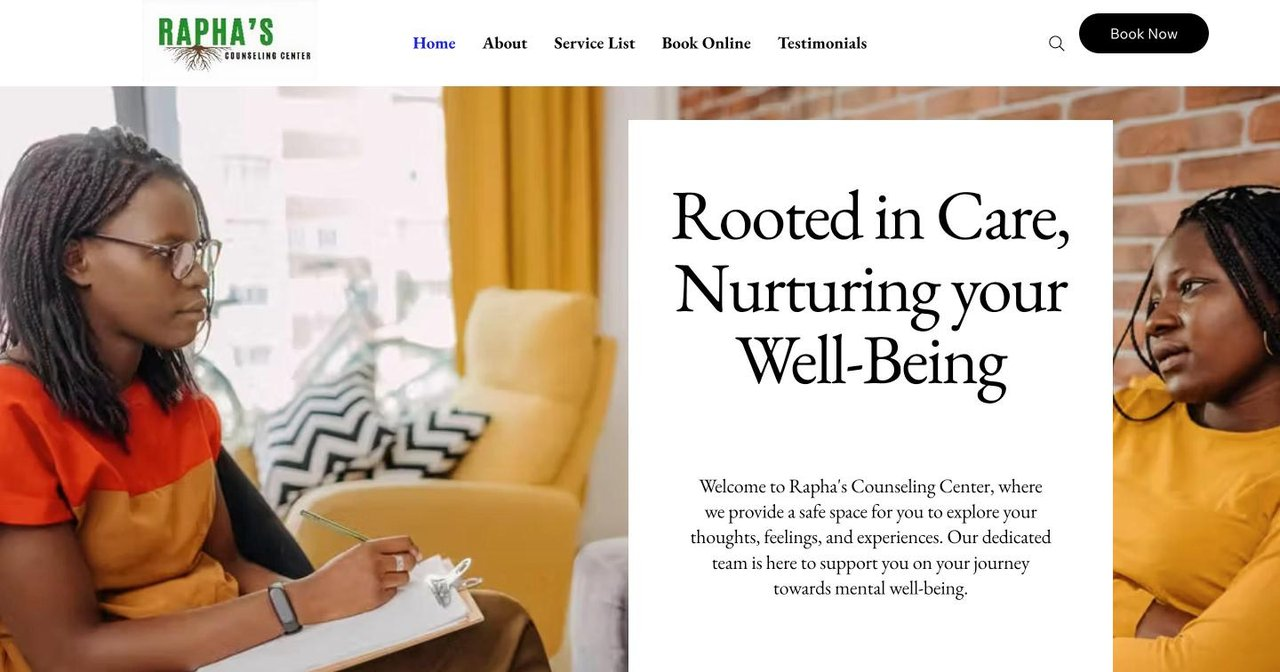
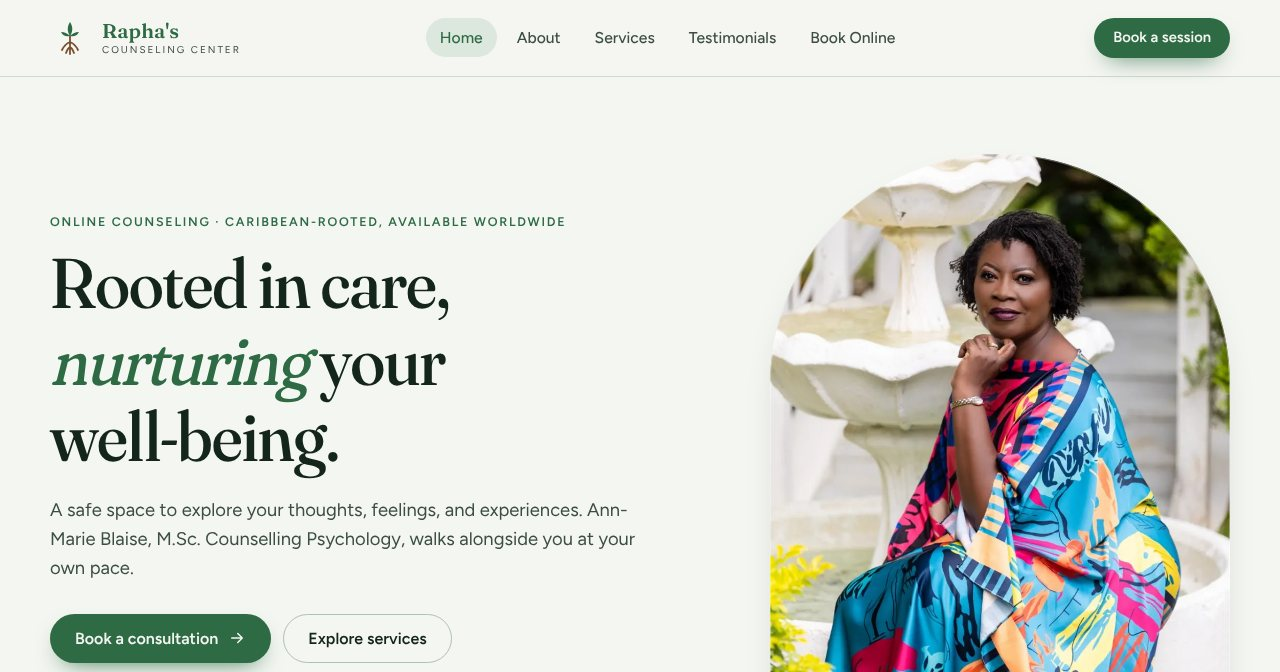
Showcase the Rapha's and G.E.M.S De La Rosa rebrands
- New "Client rebrands" section on Yang: drag-to-compare before/after
  sliders (original Wix vs. rebuild) with phone previews, what changed,
  and links to each live site and its GitHub repo
- Fresh screenshots of both rebuilt sites; original Wix screenshots kept
  as site-*-wix.jpg for the "before" view
- Correct the project copy: G.E.M.S De La Rosa is a garden event venue
  and Airbnb (not a tourism site), and both sites are now hand-coded and
  deployed on Vercel rather than built on Wix
- Use the client's own "G.E.M.S De La Rosa" spelling

Claude-Session: https://claude.ai/code/session_011RFpvwAu8YhYuHd5uMvxxn

diff --git a/yang.html b/yang.html
@@ -143,6 +143,36 @@ button{font-family:inherit;cursor:pointer;border:none;background:none;}
 .case .link{margin-top:14px;display:inline-flex;align-items:center;gap:8px;font-family:var(--yin-mono);font-size:11px;letter-spacing:.14em;text-transform:uppercase;color:var(--navy);border-bottom:1px solid var(--navy);padding-bottom:4px;transition:.2s;}
 .case .link:hover{gap:12px;}
 @media (max-width:820px){ .cases{grid-template-columns:1fr;} }
+/* Client rebrands — before / after */
+.rb{display:grid;grid-template-columns:minmax(0,1.35fr) minmax(0,1fr);gap:56px;align-items:center;margin-top:64px;}
+.rb.flip .rb-media{order:2;}
+.rb-media{position:relative;padding:0 0 36px;}
+.ba{--pos:50%;position:relative;aspect-ratio:1280/672;border-radius:var(--radius);overflow:hidden;background:var(--sand);box-shadow:var(--shadow-lg);cursor:ew-resize;touch-action:pan-y;user-select:none;-webkit-user-select:none;}
+.ba img{position:absolute;inset:0;width:100%;height:100%;object-fit:cover;object-position:top;pointer-events:none;}
+.ba-before{position:absolute;inset:0;clip-path:inset(0 calc(100% - var(--pos)) 0 0);}
+.ba-line{position:absolute;top:0;bottom:0;left:var(--pos);width:2px;margin-left:-1px;background:#fff;box-shadow:0 0 0 1px rgba(21,43,71,.12);pointer-events:none;}
+.ba-knob{position:absolute;top:50%;left:50%;width:42px;height:42px;margin:-21px 0 0 -21px;border-radius:999px;background:#fff;color:#1E3A5F;display:grid;place-items:center;box-shadow:var(--shadow);}
+.ba-knob svg{width:20px;height:20px;}
+.ba-range{position:absolute;inset:0;width:100%;height:100%;opacity:0;pointer-events:none;margin:0;}
+.ba:has(.ba-range:focus-visible) .ba-knob{outline:3px solid var(--terracotta);outline-offset:3px;}
+.ba-tag{position:absolute;top:14px;padding:6px 11px;border-radius:999px;background:rgba(15,23,32,.74);color:#fff;font-family:var(--yin-mono);font-size:10px;letter-spacing:.18em;text-transform:uppercase;pointer-events:none;}
+.ba-tag.before{left:14px;} .ba-tag.after{right:14px;}
+.rb-phone{position:absolute;right:-14px;bottom:0;width:23%;border-radius:22px;overflow:hidden;border:5px solid #11161D;background:#11161D;box-shadow:var(--shadow-lg);pointer-events:none;}
+.rb-phone img{width:100%;aspect-ratio:390/700;object-fit:cover;object-position:top;}
+.rb-body .kind{font-family:var(--yin-mono);font-size:10px;letter-spacing:.24em;text-transform:uppercase;color:var(--slate-soft);}
+.rb-body h3{font-family:var(--yang-serif);font-style:italic;font-size:clamp(30px,3.4vw,40px);font-weight:400;color:var(--navy);margin:8px 0 12px;letter-spacing:-.01em;line-height:1.1;}
+.rb-body > p{color:var(--slate);font-size:15px;}
+.rb-list{list-style:none;margin:18px 0 22px;display:grid;gap:9px;}
+.rb-list li{position:relative;padding-left:22px;color:var(--slate);font-size:14px;line-height:1.55;}
+.rb-list li::before{content:"";position:absolute;left:0;top:.62em;width:10px;height:1px;background:var(--terracotta);}
+.rb-links{display:flex;flex-wrap:wrap;gap:22px;}
+.rb-links a{display:inline-flex;align-items:center;gap:8px;font-family:var(--yin-mono);font-size:11px;letter-spacing:.14em;text-transform:uppercase;color:var(--navy);border-bottom:1px solid var(--navy);padding-bottom:4px;transition:gap .2s;}
+.rb-links a:hover{gap:12px;}
+@media (max-width:900px){
+  .rb{grid-template-columns:1fr;gap:28px;margin-top:56px;}
+  .rb.flip .rb-media{order:0;}
+  .rb-phone{right:8px;width:22%;border-width:3px;border-radius:12px;}
+}
 
 /* Philosophy pullquote */
 .philosophy{padding:120px 0;background:var(--paper);text-align:center;}
@@ -325,30 +355,83 @@ button{font-family:inherit;cursor:pointer;border:none;background:none;}
   </div>
 </section>
 
+<!-- Client rebrands — before / after -->
+<section class="section" id="rebrands">
+  <div class="container">
+    <div class="reveal">
+      <span class="eyebrow">Client rebrands</span>
+      <h2 class="section-title">From template to tailor-made.</h2>
+      <p class="section-sub">Two small Caribbean businesses, two Wix sites rebuilt by hand into fast, custom-coded websites. Drag across each one to compare before and after.</p>
+    </div>
+
+    <article class="rb reveal">
+      <div class="rb-media">
+        <div class="ba">
+          <img src="site-rapha.jpg" alt="Rapha's Counseling Center after the rebrand — Ann-Marie Blaise's portrait beside the headline “Rooted in care, nurturing your well-being.”" loading="lazy"/>
+          <div class="ba-before"><img src="site-rapha-wix.jpg" alt="Rapha's Counseling Center before the rebrand — the original Wix homepage" loading="lazy"/></div>
+          <span class="ba-tag before">Before · Wix</span>
+          <span class="ba-tag after">After · Rebuild</span>
+          <span class="ba-line" aria-hidden="true"><span class="ba-knob"><svg viewBox="0 0 24 24" fill="none" stroke="currentColor" stroke-width="2" stroke-linecap="round" stroke-linejoin="round"><path d="m9 6-6 6 6 6M15 6l6 6-6 6"/></svg></span></span>
+          <input class="ba-range" type="range" min="0" max="100" value="50" aria-label="Rapha's Counseling Center: slide to compare the original Wix site with the rebuild"/>
+        </div>
+        <figure class="rb-phone"><img src="site-rapha-mobile.jpg" alt="Rapha's Counseling Center rebuild on a phone" loading="lazy"/></figure>
+      </div>
+      <div class="rb-body">
+        <div class="kind">Web · Rebrand · Counseling practice</div>
+        <h3>Rapha's Counseling Center</h3>
+        <p>Ann-Marie Blaise's online counseling practice had outgrown its Wix template. I rebuilt it as a calm, nine-page site — a green, rooted identity, her own portrait front and centre, and booking that takes about two minutes.</p>
+        <ul class="rb-list">
+          <li>Google Calendar booking with video links for all six services, with a WhatsApp fallback</li>
+          <li>Shows Trinidad time next to the visitor's own, for clients across the Caribbean and the Netherlands</li>
+          <li>New FAQ, privacy, accessibility, terms and refund pages</li>
+          <li>Every old Wix URL redirected, so existing links and search ranking carry over</li>
+          <li>Light &amp; dark mode, WebP photography, structured data for search — deployed on Vercel</li>
+        </ul>
+        <div class="rb-links">
+          <a href="https://www.raphascounseling.com/" target="_blank" rel="noopener">Visit the site ↗</a>
+          <a href="https://github.com/Caden284/Raphascounseling" target="_blank" rel="noopener">View the code ↗</a>
+        </div>
+      </div>
+    </article>
+
+    <article class="rb flip reveal">
+      <div class="rb-media">
+        <div class="ba">
+          <img src="site-gems.jpg" alt="G.E.M.S De La Rosa after the rebrand — an aerial view of the garden under the headline “Yuh event, yuh stay, one gem of a garden.”" loading="lazy"/>
+          <div class="ba-before"><img src="site-gems-wix.jpg" alt="G.E.M.S De La Rosa before the rebrand — the original Wix homepage" loading="lazy"/></div>
+          <span class="ba-tag before">Before · Wix</span>
+          <span class="ba-tag after">After · Rebuild</span>
+          <span class="ba-line" aria-hidden="true"><span class="ba-knob"><svg viewBox="0 0 24 24" fill="none" stroke="currentColor" stroke-width="2" stroke-linecap="round" stroke-linejoin="round"><path d="m9 6-6 6 6 6M15 6l6 6-6 6"/></svg></span></span>
+          <input class="ba-range" type="range" min="0" max="100" value="50" aria-label="G.E.M.S De La Rosa: slide to compare the original Wix site with the rebuild"/>
+        </div>
+        <figure class="rb-phone"><img src="site-gems-mobile.jpg" alt="G.E.M.S De La Rosa rebuild on a phone" loading="lazy"/></figure>
+      </div>
+      <div class="rb-body">
+        <div class="kind">Web · Rebrand · Event venue &amp; Airbnb</div>
+        <h3>G.E.M.S De La Rosa</h3>
+        <p>A garden event venue and Airbnb stay in Trinidad whose Wix site opened on stock beach photos rather than the venue itself. The rebuild puts the venue first — the garden from above, clear prices, and the owner's Trini voice kept in every menu item.</p>
+        <ul class="rb-list">
+          <li>Two ways in: book the event space or stay at the Airbnb</li>
+          <li>Package pricing in TTD with USD estimates, driven by one editable price list</li>
+          <li>Event booking form, photo gallery with lightbox, and a guide to things to do nearby</li>
+          <li>WhatsApp, directions and a prefilled contact form, one tap away on mobile</li>
+          <li>Old Wix links redirected, structured data for search — deployed on Vercel</li>
+        </ul>
+        <div class="rb-links">
+          <a href="https://www.gemsdelarosa.com/" target="_blank" rel="noopener">Visit the site ↗</a>
+          <a href="https://github.com/Caden284/GEMSdelarosa" target="_blank" rel="noopener">View the code ↗</a>
+        </div>
+      </div>
+    </article>
+  </div>
+</section>
+
 <!-- Case studies -->
 <section class="section" style="background:var(--paper);">
   <div class="container reveal">
     <span class="eyebrow">Selected Work</span>
     <h2 class="section-title">Case notes.</h2>
     <div class="cases">
-      <article class="case">
-        <img src="site-rapha.jpg" alt="Rapha's Counseling Center — homepage"/>
-        <div class="case-body">
-          <div class="kind">Web · Brand · Booking</div>
-          <h4>Rapha's Counseling Center</h4>
-          <p>Freelance booking site for a mental health practice — soft colors, generous typography, a low-friction flow to schedule the first session online. Built on Wix.</p>
-          <a class="link" href="https://www.raphascounseling.com/" target="_blank" rel="noopener">Visit the site ↗</a>
-        </div>
-      </article>
-      <article class="case">
-        <img src="site-gems.jpg" alt="G.E.M.S. de la Rosa — homepage"/>
-        <div class="case-body">
-          <div class="kind">Web · Travel · Social</div>
-          <h4>G.E.M.S. de la Rosa</h4>
-          <p>Trinidad &amp; Tobago tourism site + social media management (2025–2026). 2,000+ engagements and 40+ new followers in the first month of managing the brand.</p>
-          <a class="link" href="https://www.gemsdelarosa.com/" target="_blank" rel="noopener">Visit the site ↗</a>
-        </div>
-      </article>
       <article class="case">
         <img src="p2-cover.jpg" alt="P2 Social 2.0 — Keynote bento layout with projected growth, visual identity, and pillars"/>
         <div class="case-body">
@@ -418,6 +501,17 @@ const io = new IntersectionObserver((entries)=>{
   entries.forEach(e=>{ if(e.isIntersecting){ e.target.classList.add('in'); io.unobserve(e.target); } });
 },{threshold:.12, rootMargin:'0px 0px -60px 0px'});
 document.querySelectorAll('.reveal').forEach(el=>io.observe(el));
+// Before / after sliders
+document.querySelectorAll('.ba').forEach(ba=>{
+  const range = ba.querySelector('.ba-range');
+  const set = v => { v = Math.max(0, Math.min(100, v)); ba.style.setProperty('--pos', v + '%'); range.value = Math.round(v); };
+  const fromX = x => { const r = ba.getBoundingClientRect(); set((x - r.left) / r.width * 100); };
+  let dragging = false;
+  range.addEventListener('input', () => set(+range.value));
+  ba.addEventListener('pointerdown', e => { dragging = true; ba.setPointerCapture(e.pointerId); fromX(e.clientX); });
+  ba.addEventListener('pointermove', e => { if(dragging) fromX(e.clientX); });
+  ['pointerup','pointercancel'].forEach(t => ba.addEventListener(t, () => { dragging = false; }));
+});
 </script>
 
 </body>

diff --git a/yin.html b/yin.html
@@ -306,7 +306,7 @@ button{font-family:inherit;cursor:pointer;border:none;background:none;}
       <div class="stat">
         <div class="num" data-target="2"><span class="counter">0</span></div>
         <div class="label">Client sites shipped &amp; live</div>
-        <div class="detail">Rapha's Counseling Center &amp; G.E.M.S. de la Rosa</div>
+        <div class="detail">Rapha's Counseling Center &amp; G.E.M.S De La Rosa — both rebuilt from Wix to custom code</div>
       </div>
       <div class="stat">
         <div class="num" data-target="4"><span class="counter">0</span></div>
@@ -372,7 +372,7 @@ button{font-family:inherit;cursor:pointer;border:none;background:none;}
         <div>
           <h4>Freelance Web Developer</h4>
           <div class="role">Client Projects</div>
-          <p>Launched a Wix booking site for Rapha's Counseling Center so clients can schedule therapy sessions online, and built Stitch Vault, a client-management app for tailoring businesses. Manage scoping, invoicing, and budgets directly with clients across every engagement.</p>
+          <p>Launched a Wix booking site for Rapha's Counseling Center, then rebuilt it — and G.E.M.S De La Rosa's venue site — from Wix into fast, hand-coded websites deployed on Vercel. Built Stitch Vault, a client-management app for tailoring businesses. Manage scoping, invoicing, and budgets directly with clients across every engagement.</p>
         </div>
       </div>
 
@@ -409,20 +409,20 @@ button{font-family:inherit;cursor:pointer;border:none;background:none;}
       <a class="proj" href="https://www.raphascounseling.com/" target="_blank" rel="noopener" style="text-decoration:none;color:inherit;">
         <div class="thumb"><img src="site-rapha.jpg" alt="Rapha's Counseling Center homepage screenshot" loading="lazy"/></div>
         <div class="proj-body">
-          <span class="kind">Live · Web · Booking</span>
+          <span class="kind">Live · Rebrand · Booking</span>
           <h4>Rapha's Counseling Center</h4>
-          <p>Freelance build for a counseling practice: a Wix booking site so clients can schedule therapy sessions online. Scoped, wireframed, and launched directly with the owner — low-friction booking, accessible by design.</p>
-          <div class="tags"><span class="tag">Wix API</span><span class="tag">HTML</span><span class="tag">CSS</span><span class="tag">JavaScript</span></div>
+          <p>Rebuilt an online counseling practice from Wix into a nine-page, hand-coded site: Google Calendar booking for six services, time-zone-aware scheduling notes, legal and accessibility pages, and redirects that kept every old link working.</p>
+          <div class="tags"><span class="tag">HTML</span><span class="tag">CSS</span><span class="tag">JavaScript</span><span class="tag">Vercel</span><span class="tag">SEO</span></div>
           <span class="link">raphascounseling.com →</span>
         </div>
       </a>
       <a class="proj" href="https://www.gemsdelarosa.com/" target="_blank" rel="noopener" style="text-decoration:none;color:inherit;">
-        <div class="thumb"><img src="site-gems.jpg" alt="G.E.M.S. de la Rosa homepage screenshot" loading="lazy"/></div>
+        <div class="thumb"><img src="site-gems.jpg" alt="G.E.M.S De La Rosa homepage screenshot" loading="lazy"/></div>
         <div class="proj-body">
-          <span class="kind">Live · Web · Travel &amp; Social</span>
-          <h4>G.E.M.S. de la Rosa</h4>
-          <p>Trinidad &amp; Tobago tourism site plus social media management (2025–2026) — 2,000+ engagements and 40+ new followers in the first month of managing the brand.</p>
-          <div class="tags"><span class="tag">Wix Studio</span><span class="tag">Brand</span><span class="tag">Social</span></div>
+          <span class="kind">Live · Rebrand · Venue &amp; Social</span>
+          <h4>G.E.M.S De La Rosa</h4>
+          <p>Rebuilt a Trinidad garden event venue and Airbnb from Wix into a custom site with clear TTD/USD pricing, an event booking form, and a photo gallery. Also ran its social media (2025–2026): 2,000+ engagements and 40+ new followers in month one.</p>
+          <div class="tags"><span class="tag">HTML</span><span class="tag">CSS</span><span class="tag">JavaScript</span><span class="tag">Vercel</span><span class="tag">Social</span></div>
           <span class="link">gemsdelarosa.com →</span>
         </div>
       </a>

diff --git a/index.html b/index.html
@@ -778,12 +778,12 @@ a:focus-visible,button:focus-visible{outline:2px solid var(--sage);outline-offse
       <a id="yang" class="side yang" href="yang.html">
         <span class="side-tag">02 — Yang · The Expression</span>
         <h2>The Artist.<br/>The Storyteller.<br/>The Director.</h2>
-        <p>Composition, light, rhythm, restraint. The half that leads P2's rebrand, managed G.E.M.S. de la Rosa's socials, and treats a portrait as a form of paying attention.</p>
+        <p>Composition, light, rhythm, restraint. The half that leads P2's rebrand, managed G.E.M.S De La Rosa's socials, and treats a portrait as a form of paying attention.</p>
         <ul>
           <li>· Photography &amp; videography</li>
           <li>· Brand strategy &amp; graphic design</li>
           <li>· Creative direction · Social media</li>
-          <li>· Web design (Rapha's, G.E.M.S. de la Rosa)</li>
+          <li>· Web design (Rapha's, G.E.M.S De La Rosa)</li>
         </ul>
         <span class="go">Enter the Yang page →</span>
       </a>
@@ -1073,13 +1073,13 @@ a:focus-visible,button:focus-visible{outline:2px solid var(--sage);outline-offse
 
     <div class="masonry reveal" id="masonry">
 
-      <!-- WEBSITE — G.E.M.S. de la Rosa -->
+      <!-- WEBSITE — G.E.M.S De La Rosa -->
       <div class="tile site" data-cat="web" style="--r:4/3">
         <a href="https://www.gemsdelarosa.com/" target="_blank" rel="noopener" class="tile-inner">
-          <img src="site-gems.jpg" alt="Screenshot of G.E.M.S. de la Rosa homepage" loading="lazy" />
+          <img src="site-gems.jpg" alt="Screenshot of G.E.M.S De La Rosa homepage" loading="lazy" />
           <div class="tile-info">
-            <div class="kind">Website · Live</div>
-            <div class="title">G.E.M.S. de la Rosa</div>
+            <div class="kind">Website · Rebrand</div>
+            <div class="title">G.E.M.S De La Rosa</div>
             <div class="link">gemsdelarosa.com ↗</div>
           </div>
         </a>
@@ -1120,7 +1120,7 @@ a:focus-visible,button:focus-visible{outline:2px solid var(--sage);outline-offse
         <a href="https://www.raphascounseling.com/" target="_blank" rel="noopener" class="tile-inner">
           <img src="site-rapha.jpg" alt="Screenshot of Rapha's Counseling Center homepage" loading="lazy" />
           <div class="tile-info">
-            <div class="kind">Website · Live</div>
+            <div class="kind">Website · Rebrand</div>
             <div class="title">Rapha's Counseling Center</div>
             <div class="link">raphascounseling.com ↗</div>
           </div>
@@ -1310,7 +1310,7 @@ a:focus-visible,button:focus-visible{outline:2px solid var(--sage);outline-offse
         <li><a href="yang.html">Enter Yang page</a></li>
         <li><a href="#portfolio">Photography</a></li>
         <li><a href="p2-social.html" target="_blank" rel="noopener">P2 Social 2.0</a></li>
-        <li><a href="https://www.gemsdelarosa.com/" target="_blank" rel="noopener">G.E.M.S. de la Rosa</a></li>
+        <li><a href="https://www.gemsdelarosa.com/" target="_blank" rel="noopener">G.E.M.S De La Rosa</a></li>
       </ul></div>
       <div><h5>Connect</h5><ul>
         <li><a href="mailto:fahiecaden@gmail.com">Email</a></li>
